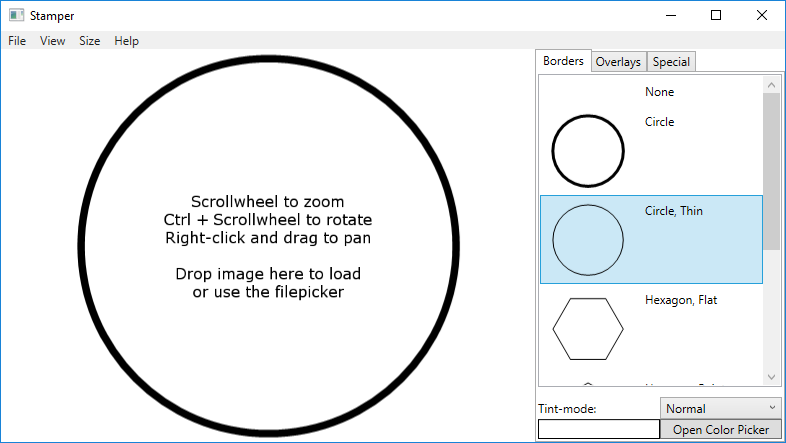
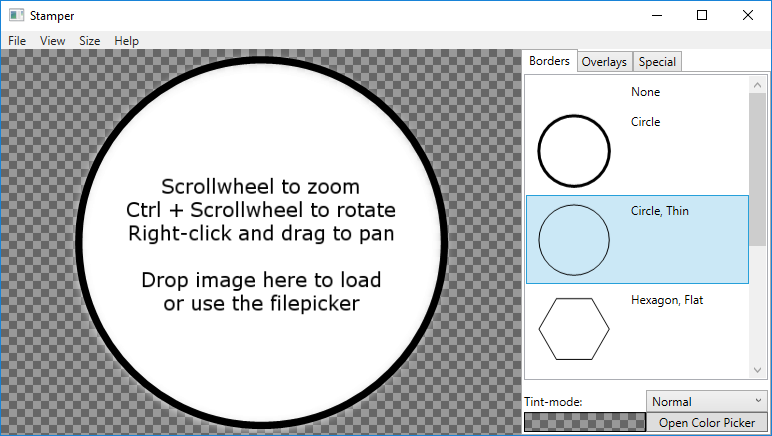
Updated version number, changelog and screenshots

diff --git a/src/Stamper.DataAccess/Properties/Settings.Designer.cs b/src/Stamper.DataAccess/Properties/Settings.Designer.cs
@@ -37,7 +37,7 @@ namespace Stamper.DataAccess.Properties {
         
         [global::System.Configuration.ApplicationScopedSettingAttribute()]
         [global::System.Diagnostics.DebuggerNonUserCodeAttribute()]
-        [global::System.Configuration.DefaultSettingValueAttribute("v1.2.0")]
+        [global::System.Configuration.DefaultSettingValueAttribute("v1.3.0")]
         public string Version {
             get {
                 return ((string)(this["Version"]));

diff --git a/CHANGELOG.md b/CHANGELOG.md
@@ -1,3 +1,12 @@
+## 1.3.0 - 2017-05-22
+* Added dedicated Settings window where you can change the default token size and change whether the preview window should update automatically.
+* Added background grid to the token view and to the current color selection to indicate transparency.
+* Added the option to remove empty borders from the output token by automatically cropping.
+* All filters that can be applied to borders and overlays can now also be applied to the main token layer through the Special-tab.
+* Updated most filters to take transparency of both the layer and the chosen color into account.
+* Added "Always on top" option to the preview window.
+* Added live-preview feature for all color selection dialogs. This feature is turned on by default, and can be turned off in the Settings window.
+
 ## 1.2.0 - 2017-05-13
 * Add support for custom, rectangular resolutions. When choosing custom resolution, you can now specify whether the chosen border and overlay should be stretched to the resolution or keep its aspect ratio.
 * When saving tokens, the save-dialog will open the last-used directory and suggest the same filename.

diff --git a/README.md b/README.md
@@ -17,7 +17,7 @@ Stamper supports loading an image from the local filesystem or directly from a w
 * **Add text to your token.** Stamper lets you place text on top of your token in any position, size, font, rotation, and color.
 
 ### Adding custom layers
-Stamper layers can be added through the UI, or by placing json files in the _layers_ folder. The structure of the json files is as follows:
+Stamper layers can be added automatically through the UI with the option of autogenerating the mask, or by manually placing json files in the _layers_ folder. The structure of the json files is as follows:
 * `name`: The name of the layer. _Required_
 * `file`: A relative path from the _layers_-folder to the image file. This is the image that is shown on top of the input image in Stamper. _Required_
 * `mask`: A relative path from the _layers_-folder to the image to use as a mask. On _border_ layers, this mask is applied to the underlying input image. On _overlay_ layers, this mask is applied to the overlay itself. Pixels with the color #FF00FF00 (#AARRGGBB) will be removed from the underlying image, all other colors are ignored. _Optional_
